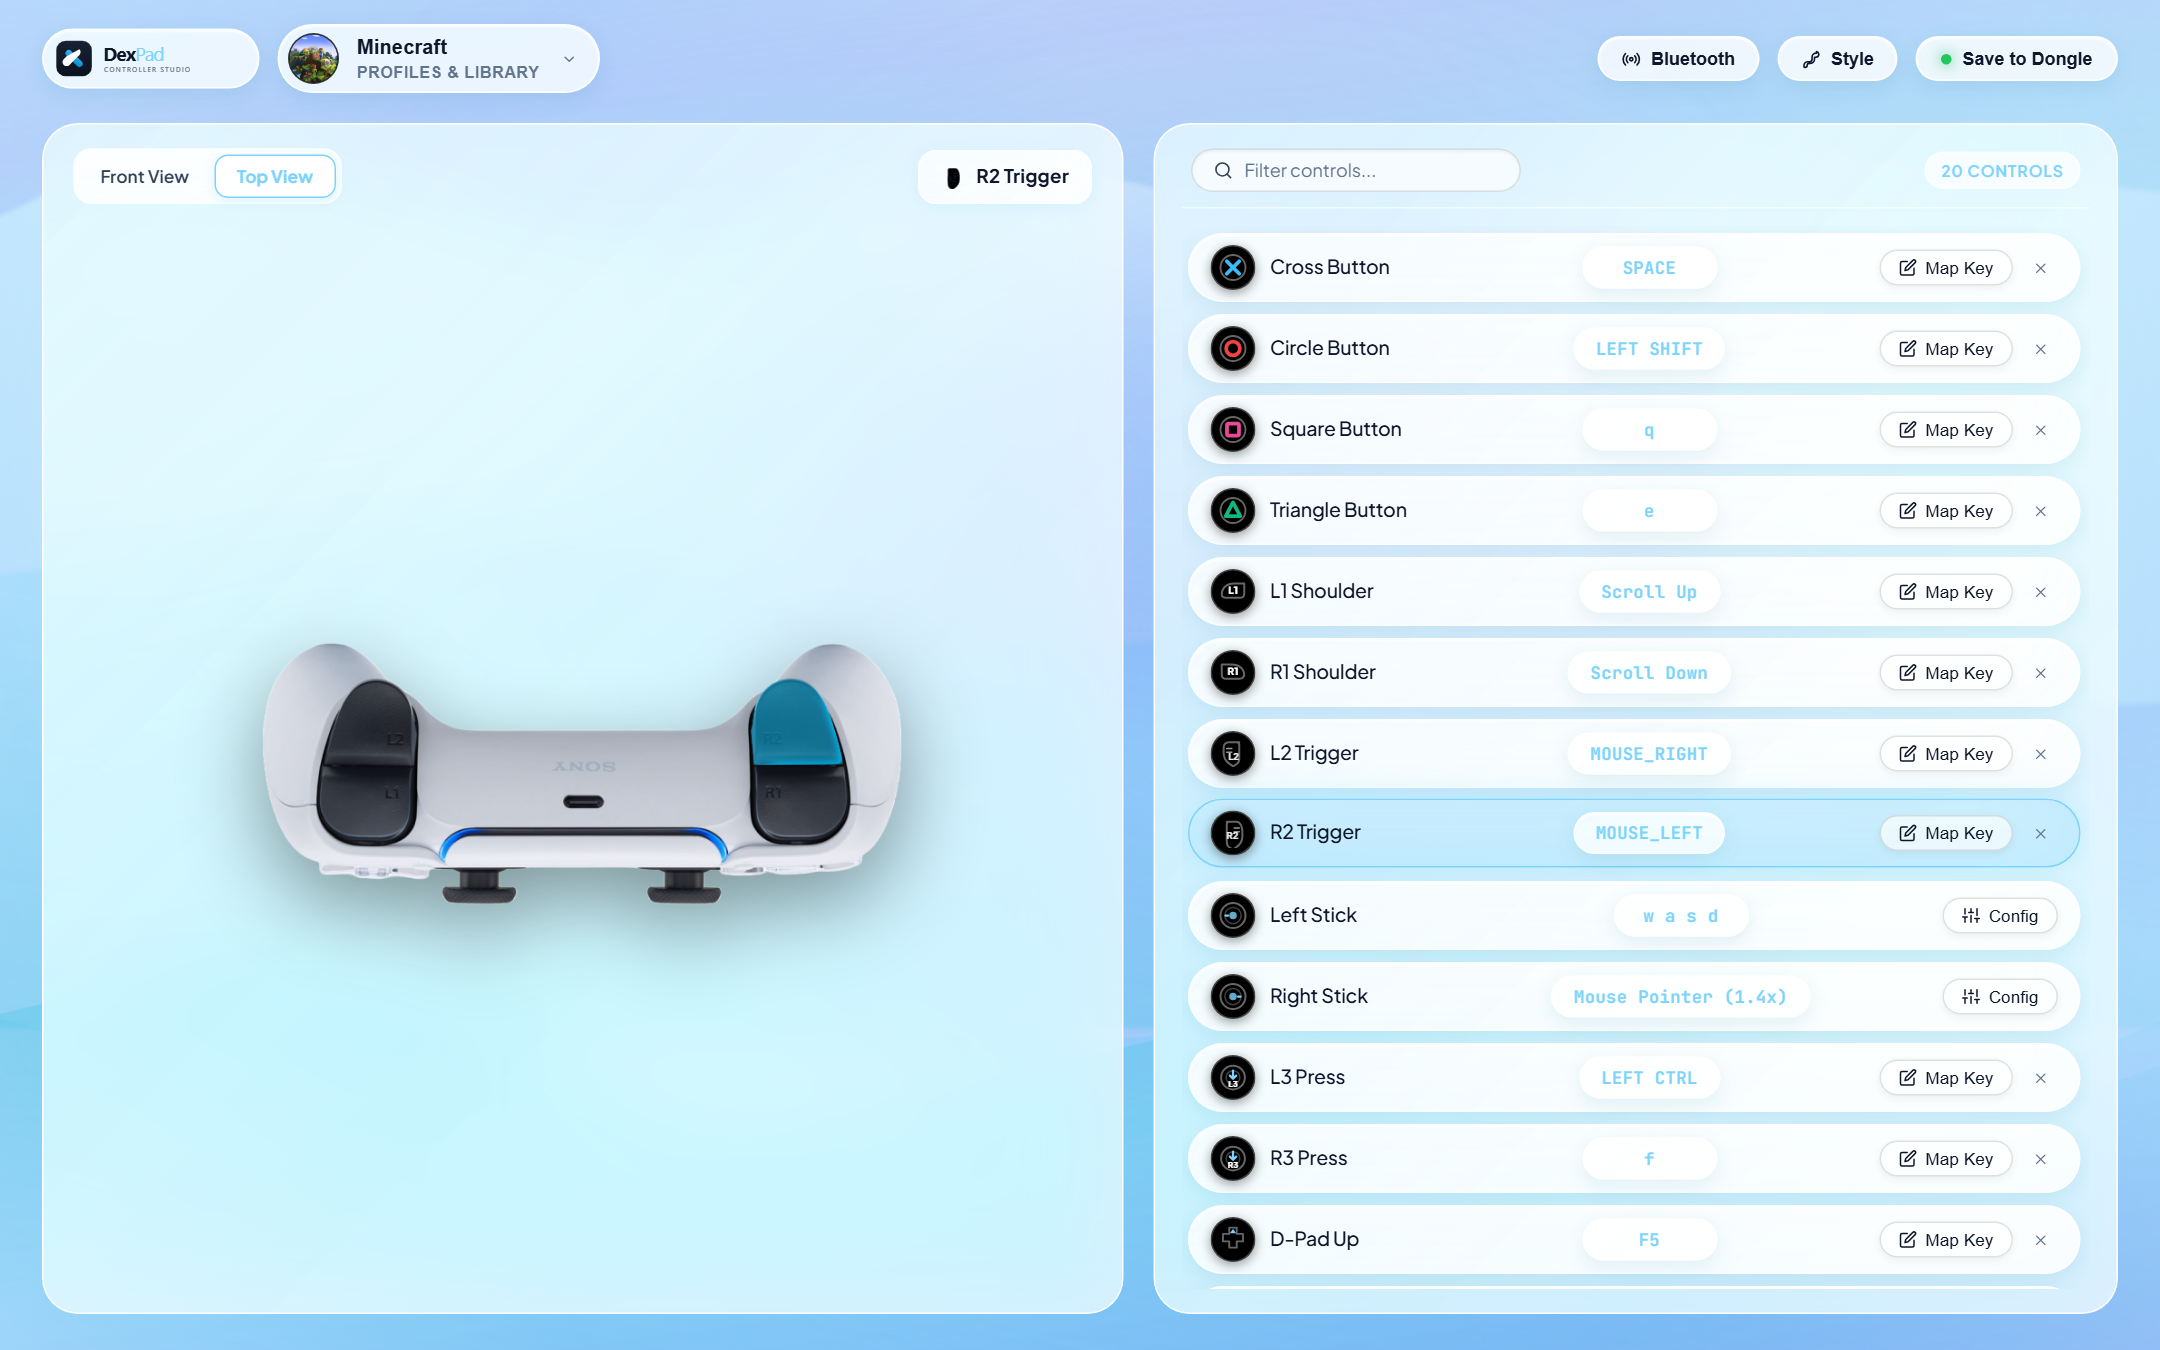
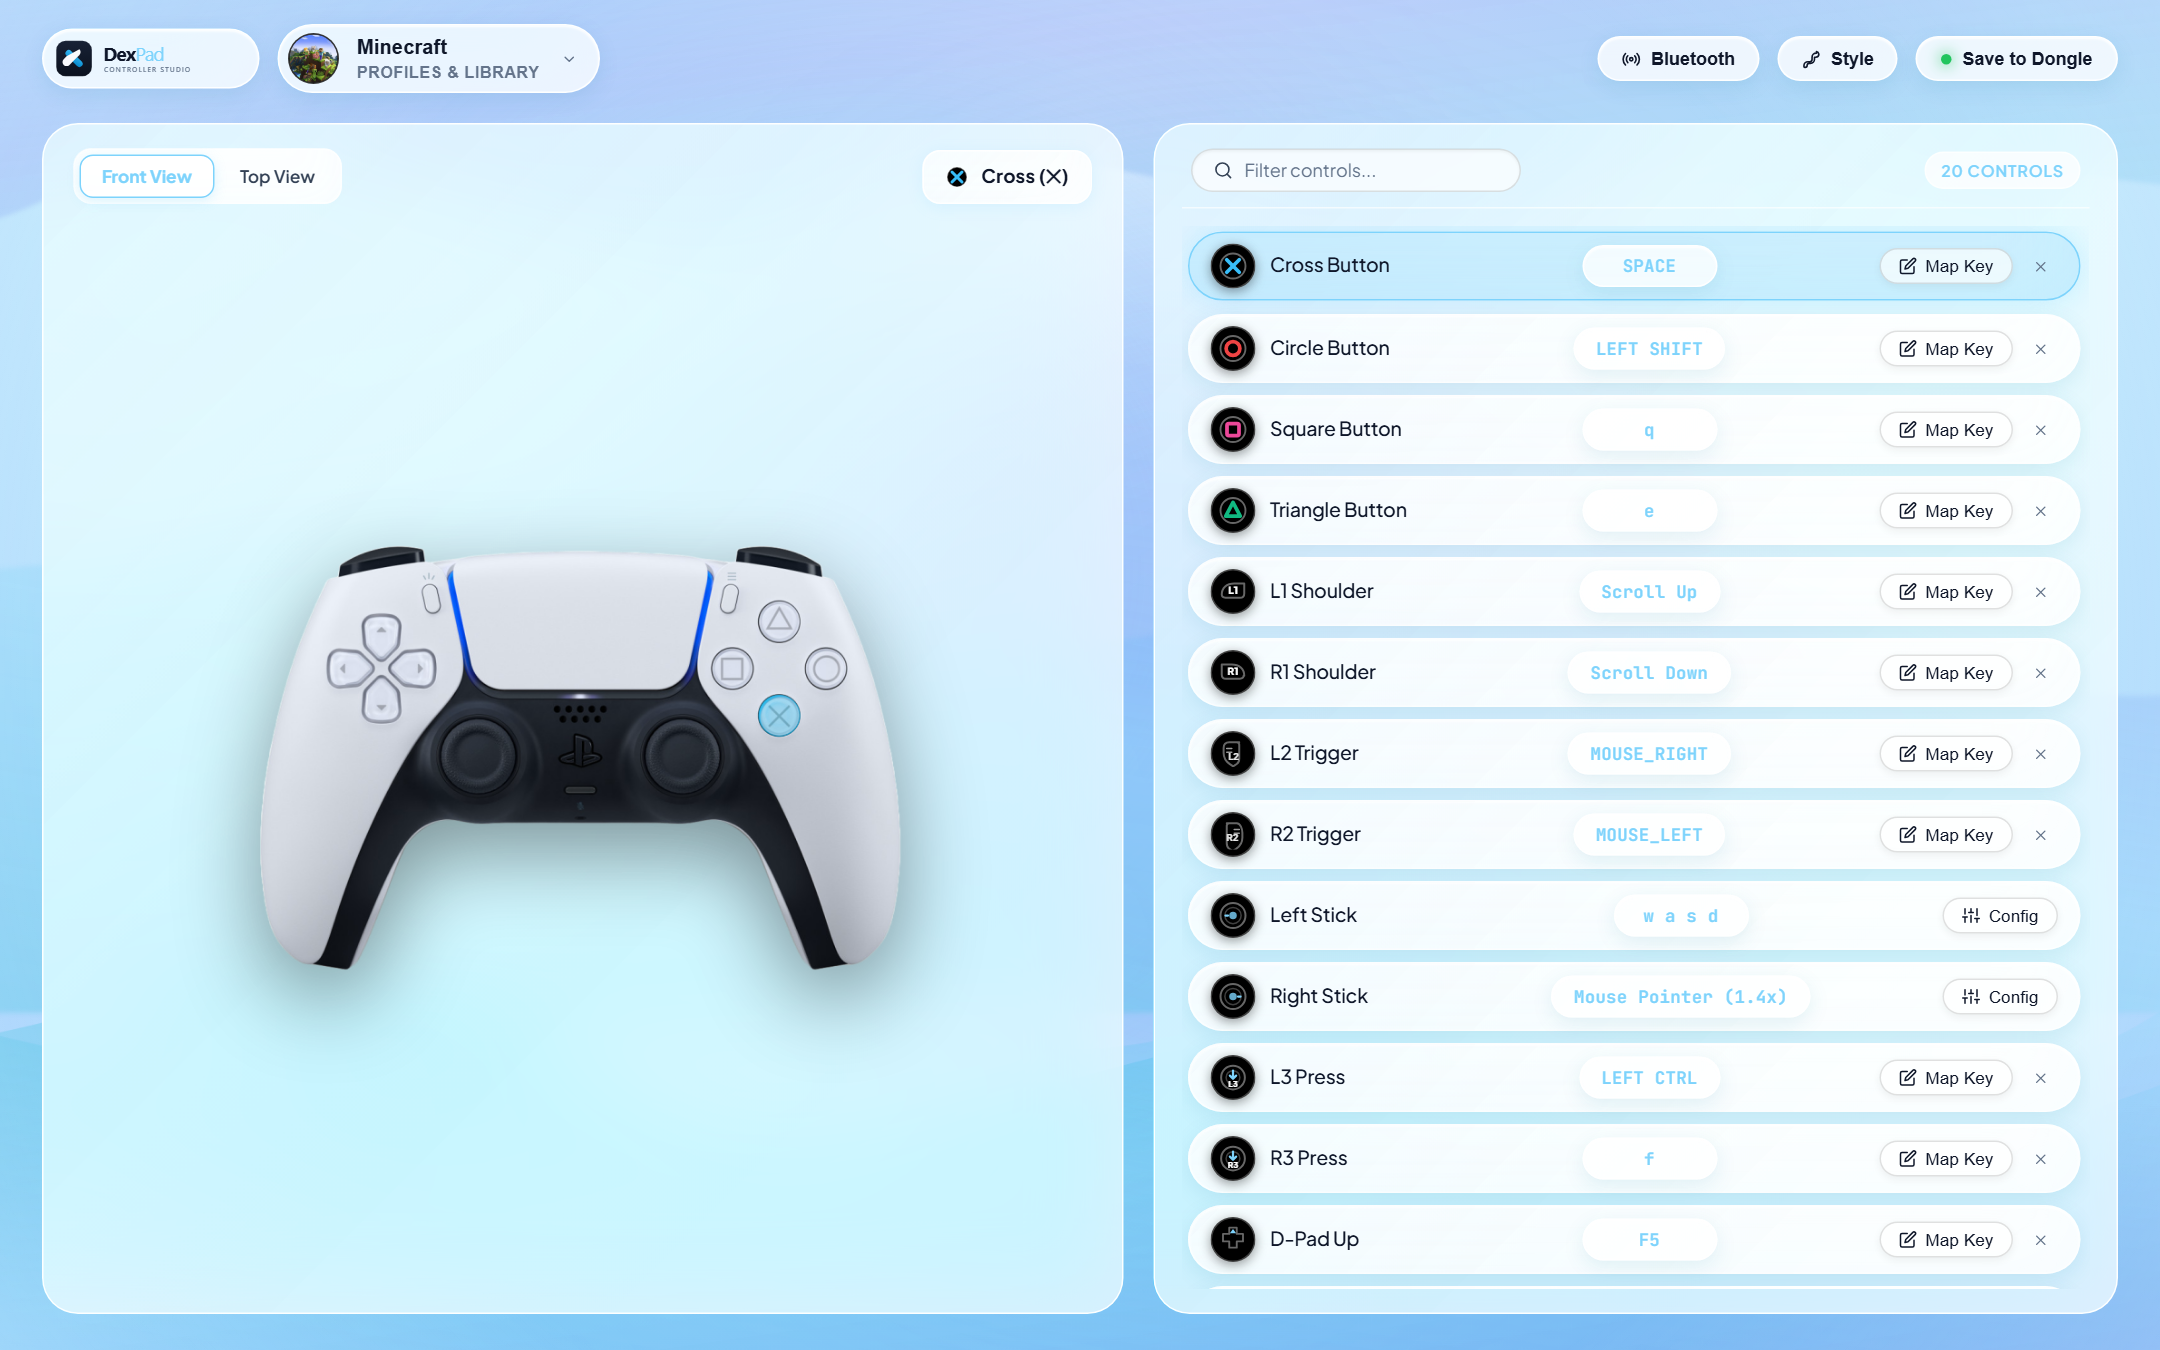
docs: use high-res front view live screenshot and remove all emojis from readme

diff --git a/scripts/capture_live_screenshot.py b/scripts/capture_live_screenshot.py
@@ -6,20 +6,19 @@ from PIL import Image
 def capture_live():
     with sync_playwright() as p:
         browser = p.chromium.launch(headless=True)
-        # 1440x900 viewport with device_scale_factor=1.5 for high-DPI clarity without excessive file size
         context = browser.new_context(
             viewport={'width': 1440, 'height': 900},
             device_scale_factor=1.5
         )
         page = context.new_page()
         
-        # Navigate with pre-selected control to show glowing hotspot and mapping row
-        url = 'http://127.0.0.1:5173/?control=r2'
+        # Navigate to front view
+        url = 'http://127.0.0.1:5173/?control=a'
         print(f"Navigating to {url}...")
-        page.goto(url, wait_until='networkidle', timeout=15000)
+        page.goto(url, wait_until='load', timeout=10000)
         
-        # Give ambient animations, controller render, and fonts 2.5 seconds to settle
-        time.sleep(2.5)
+        # Wait 2 seconds for CSS animations, fonts, and images to settle
+        page.wait_for_timeout(2000)
         
         out_path = r"c:\Users\dwinslow\Documents\Dexter_Controller_Project\docs\dexpad_hero_banner.png"
         os.makedirs(os.path.dirname(out_path), exist_ok=True)
@@ -27,7 +26,6 @@ def capture_live():
         page.screenshot(path=out_path)
         browser.close()
         
-        # Check size
         im = Image.open(out_path)
         print(f"Captured live UI screenshot: {im.size} ({os.path.getsize(out_path)} bytes)")
 

diff --git a/README.md b/README.md
@@ -2,30 +2,30 @@
 
 ![DexPad Hero Banner](docs/dexpad_hero_banner.png)
 
-# DexPad 🎮⚡
+# DexPad
 
 **Universal Zero-Latency Controller-to-Keyboard/Mouse Bridge for macOS & Windows**  
 *Transform any modern Bluetooth gamepad into native USB keyboard and mouse inputs at the hardware level—bypassing macOS's lack of X-Input with zero drivers, zero kexts, and zero background daemons.*
 
 [![License: Apache-2.0](https://img.shields.io/badge/License-Apache_2.0-blue.svg)](https://opensource.org/licenses/Apache-2.0)
 [![Hardware: RP2350 / RP2040](https://img.shields.io/badge/Hardware-Pico_2_W_%2F_ESP32-38bdf8.svg)](https://www.raspberrypi.com/)
-[![App: Tauri v2 + Vue 3](https://img.shields.io/badge/Desktop-Tauri_v2_%2B_Vue_3-6366f1.svg)](https://tauri.app/)
+[![Desktop: Tauri v2 + Vue 3](https://img.shields.io/badge/Desktop-Tauri_v2_%2B_Vue_3-6366f1.svg)](https://tauri.app/)
 
 </div>
 
 ---
 
-## 🚀 Super Simple 3-Step Setup (For Non-Techies)
+## Super Simple 3-Step Setup (For Non-Techies)
 
-You don't need any programming skills or command-line tools to use DexPad!
+You do not need programming knowledge or command-line tools to use DexPad:
 
 1. **Plug in your Pico**: Hold down the white **BOOTSEL** button on your **Raspberry Pi Pico 2 W** (or Pico W) and plug it into your Mac or PC using a standard USB-C cable.
-2. **Open DexPad**: Launch the DexPad app. DexPad will automatically detect your Pico and ask: *"Blank Pico detected! Would you like to flash DexPad firmware?"* Click **"Flash DexPad Firmware"**. The app flashes the board in 2 seconds and reboots it into controller bridge mode.
-3. **Pair & Play**: Put your controller into Bluetooth pairing mode (**PS + Share** on PlayStation, or the **Pair button** on Xbox / Switch Pro / 8BitDo). The dongle auto-connects, vibrates your controller, and you're ready to game!
+2. **Open DexPad**: Launch the DexPad desktop application. DexPad automatically detects your board and asks: *"Blank Pico detected! Would you like to flash DexPad firmware?"* Click **"Flash DexPad Firmware"**. The app writes the firmware in 2 seconds and reboots the board into bridge mode.
+3. **Pair and Play**: Put your controller into Bluetooth pairing mode (**PS + Share** on PlayStation, or the **Pair button** on Xbox, Switch Pro, or 8BitDo). The dongle connects automatically, gives a confirmation rumble, and you are ready to play.
 
 ---
 
-## 💡 The Problem & The Solution
+## The Problem and The Solution
 
 **The macOS Controller Dilemma:**  
 macOS lacks native X-Input support. When playing games on Mac (Steam, native ports, indie titles, emulators, or cloud gaming), gamepad compatibility is fragmented. Games often fail to detect controllers, lack remapping options, or demand invasive background accessibility daemons and DriverKit entitlements.
@@ -38,7 +38,7 @@ DexPad shifts the entire translation pipeline to an ultra-low latency hardware b
 
 ---
 
-## 🏛 System Architecture
+## System Architecture
 
 ```text
 ┌─────────────────────────────────┐
@@ -70,9 +70,9 @@ DexPad shifts the entire translation pipeline to an ultra-low latency hardware b
 
 ---
 
-## ✨ Features
+## Features
 
-- **Driverless Native Operation**: Zero driver installs, zero macOS system extension approvals, zero accessibility prompts.
+- **Driverless Native Operation**: Zero driver installs, zero macOS system extension approvals, and zero accessibility prompts.
 - **Automatic Dongle & Controller Detection**:
   - Automatically identifies DexPad hardware via USB VID (`0x2E8A` / `0x303A`) and handshakes over CDC serial.
   - Automatically detects connected gamepad models (PlayStation, Xbox, Nintendo Switch, 8BitDo) and adapts the 2D view and button legends (Cross/Circle vs. A/B vs. B/A) on the fly.
@@ -83,7 +83,7 @@ DexPad shifts the entire translation pipeline to an ultra-low latency hardware b
   - **Hardware Profile Switch Shortcut**: Hold **Home** and tap **D-Pad Left / Right** on your controller to switch profiles without opening the desktop app.
 - **Game Library & RAWG Integration**:
   - Live search over 800,000 titles via the RAWG video game database to pull cover art, release details, and genre tags.
-  - **Add Game Manually**: Create custom profiles with a live 600×900 card preview, custom genre chips, and starter presets (*3D FPS WASD+Mouse*, *2D Retro Platformer*, *Clean Slate*).
+  - **Add Game Manually**: Create custom profiles with a live 600x900 card preview, custom genre chips, and starter presets (*3D FPS WASD+Mouse*, *2D Retro Platformer*, *Clean Slate*).
 - **Sub-Pixel Smooth Mouse & Analog Curves**:
   - 125Hz throttled analog stick to mouse movement with remainder accumulation.
   - Selectable acceleration curves: *Linear*, *Exponential*, and *Aggressive*.
@@ -91,15 +91,15 @@ DexPad shifts the entire translation pipeline to an ultra-low latency hardware b
 - **Directional D-Pad & Analog Trigger Modes**:
   - Full support for 4-way, 8-way, and single-click directional mappings.
   - Analog trigger activation threshold customization (hair-trigger vs. full pull).
-- **Apple / Modern Minimalist Aesthetic**:
+- **Apple and Modern Minimalist Aesthetic**:
   - VisionOS-inspired floating glass pill design with deep-space cosmic and sky-blue ambient themes.
   - Dynamic light/dark typography and responsive UI scaling.
 - **3D Printable Snap-Fit Enclosure**:
-  - Pre-modeled STEP, STL, and 3MF files for both minimalist and gothic snap-fit enclosures included in `case_3d/`.
+  - Pre-modeled STEP, STL, and FreeCAD files for friction-peg snapless enclosures included in `case_3d/`.
 
 ---
 
-## 🛠 Hardware Requirements
+## Hardware Requirements
 
 | Hardware Component | Details |
 | :--- | :--- |
@@ -112,22 +112,22 @@ DexPad shifts the entire translation pipeline to an ultra-low latency hardware b
 
 ---
 
-## 📦 Installation & Quick Start
+## Installation and Quick Start
 
 ### 1. Flash the Hardware Firmware
 
 #### Option A: In-App 1-Click Flashing (Easiest)
 1. Hold the white **BOOTSEL** button on your Raspberry Pi Pico W / Pico 2 W while plugging it into your computer's USB port.
 2. Launch the **DexPad** desktop application.
-3. DexPad will display a notification: *"Raspberry Pi Pico detected in BOOTSEL mode!"*
-4. Click **Flash DexPad Firmware**. The app writes the bundled UF2 binary and reboots your Pico directly into dongle mode in ~2 seconds.
+3. DexPad displays a notification: *"Raspberry Pi Pico detected in BOOTSEL mode!"*
+4. Click **Flash DexPad Firmware**. The app writes the bundled UF2 binary and reboots your Pico directly into dongle mode in approximately 2 seconds.
 
 #### Option B: Manual Drag-and-Drop
 1. Hold **BOOTSEL** and plug your Pico into your computer. A volume named `RPI-RP2` (or `RP2350`) will appear.
 2. Copy the precompiled UF2 file from the repository into the drive:
    - For Pico 2 W (RP2350): `app/src-tauri/firmware/dexpad_pico2w.uf2`
    - For Pico W (RP2040): `app/src-tauri/firmware/dexpad_picow.uf2`
-3. The board will automatically reboot and start blinking its LED, indicating it is ready to pair.
+3. The board reboots automatically and blinks its LED to indicate it is ready to pair.
 
 ---
 
@@ -139,7 +139,7 @@ Place your controller into Bluetooth pairing mode:
 - **Nintendo Switch Pro Controller**: Hold the small circular **Sync** button near the USB port until the bottom green LEDs cycle.
 - **8BitDo Controllers**: Switch to Bluetooth mode (**S** or **X**), then hold the **Pair** button for 3 seconds.
 
-The DexPad dongle will automatically negotiate and save the pairing keys to onboard flash. Once connected, your controller will vibrate briefly and display player LED 1.
+The DexPad dongle automatically negotiates and saves the pairing keys to onboard flash. Once connected, your controller gives a brief rumble feedback.
 
 ---
 
@@ -170,11 +170,11 @@ To create a signed, standalone native executable (`.dmg` for macOS, `.msi` / `.e
 ```bash
 npm run tauri build
 ```
-The compiled release installer will be located in `app/src-tauri/target/release/bundle/`.
+The compiled release installer is located in `app/src-tauri/target/release/bundle/`.
 
 ---
 
-## 🖨 3D Printable Enclosure
+## 3D Printable Enclosure
 
 The `case_3d/` directory contains complete CAD source files and 3D print assets for housing your Pico 2 W dongle:
 
@@ -190,7 +190,7 @@ The `case_3d/` directory contains complete CAD source files and 3D print assets 
 
 ---
 
-## 🔌 Serial Protocol Specification (115200 Baud)
+## Serial Protocol Specification (115200 Baud)
 
 DexPad communicates with the hardware dongle using newline-delimited JSON (NDJSON) over USB CDC Serial:
 
@@ -211,7 +211,7 @@ DexPad communicates with the hardware dongle using newline-delimited JSON (NDJSO
 }
 ```
 
-### 2. Switch Active Slot (`SET_SLOT`)
+### 2. Switch Active Slot (SET_SLOT)
 ```json
 // Host -> Dongle
 {"cmd": "SET_SLOT", "slot": 1}
@@ -220,7 +220,7 @@ DexPad communicates with the hardware dongle using newline-delimited JSON (NDJSO
 {"status": "ok", "msg": "slot_changed", "active_profile": 1, "name": "Minecraft"}
 ```
 
-### 3. Write Profile (`WRITE_PROFILE`)
+### 3. Write Profile (WRITE_PROFILE)
 ```json
 // Host -> Dongle
 {
@@ -265,7 +265,7 @@ DexPad communicates with the hardware dongle using newline-delimited JSON (NDJSO
 
 ---
 
-## 📄 License
+## License
 
 This project is open-source under the [Apache License 2.0](LICENSE).  
-Copyright © 2026 Deven Winslow (DevTheDev189). Feel free to modify, build your own custom dongles, and share your game profiles!
+Copyright (c) 2026 Deven Winslow (DevTheDev189). Feel free to modify, build your own custom dongles, and share your game profiles!
